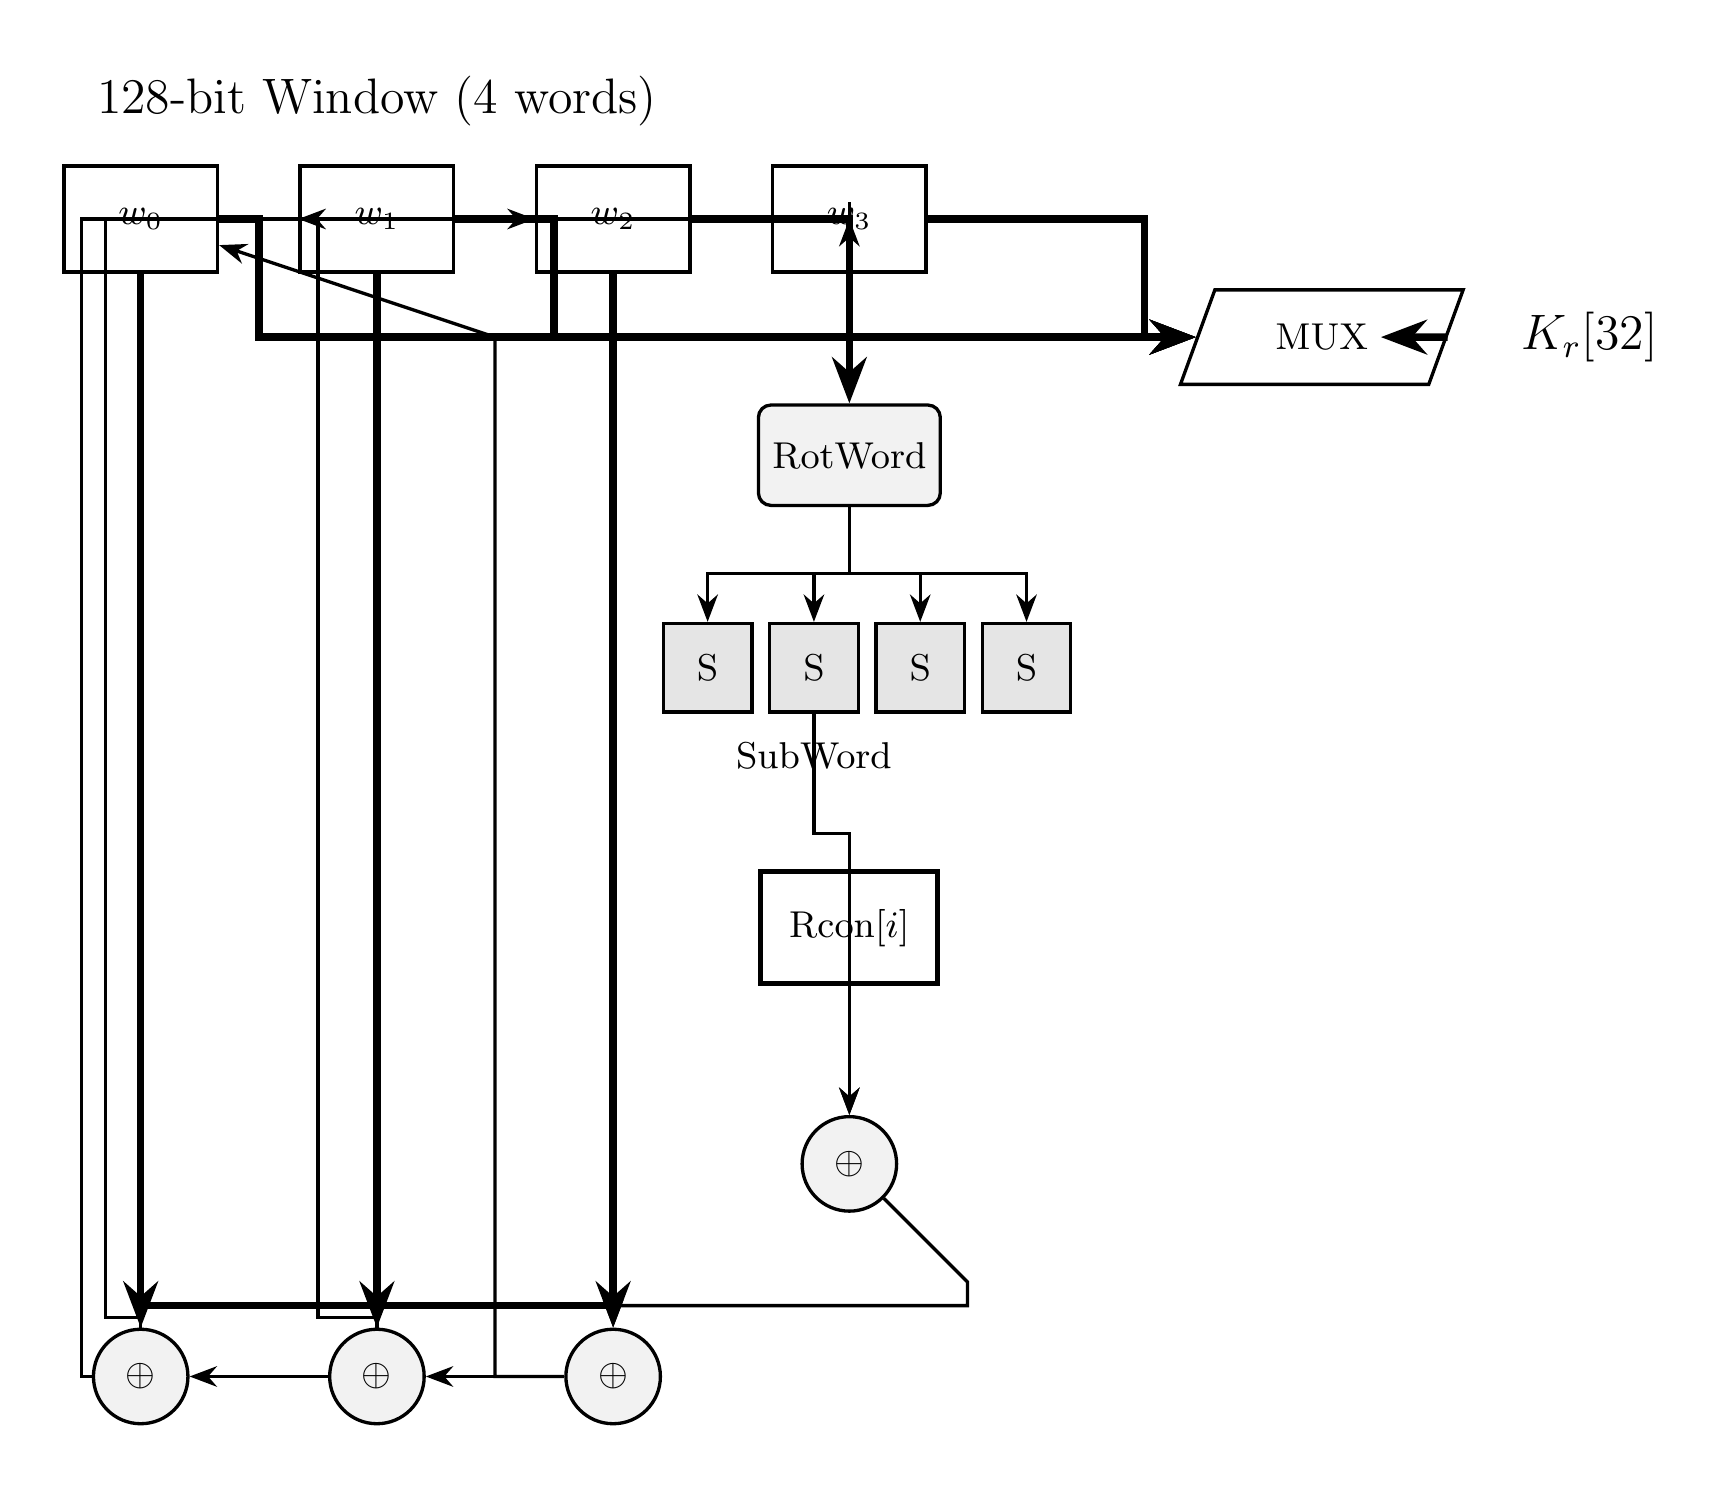
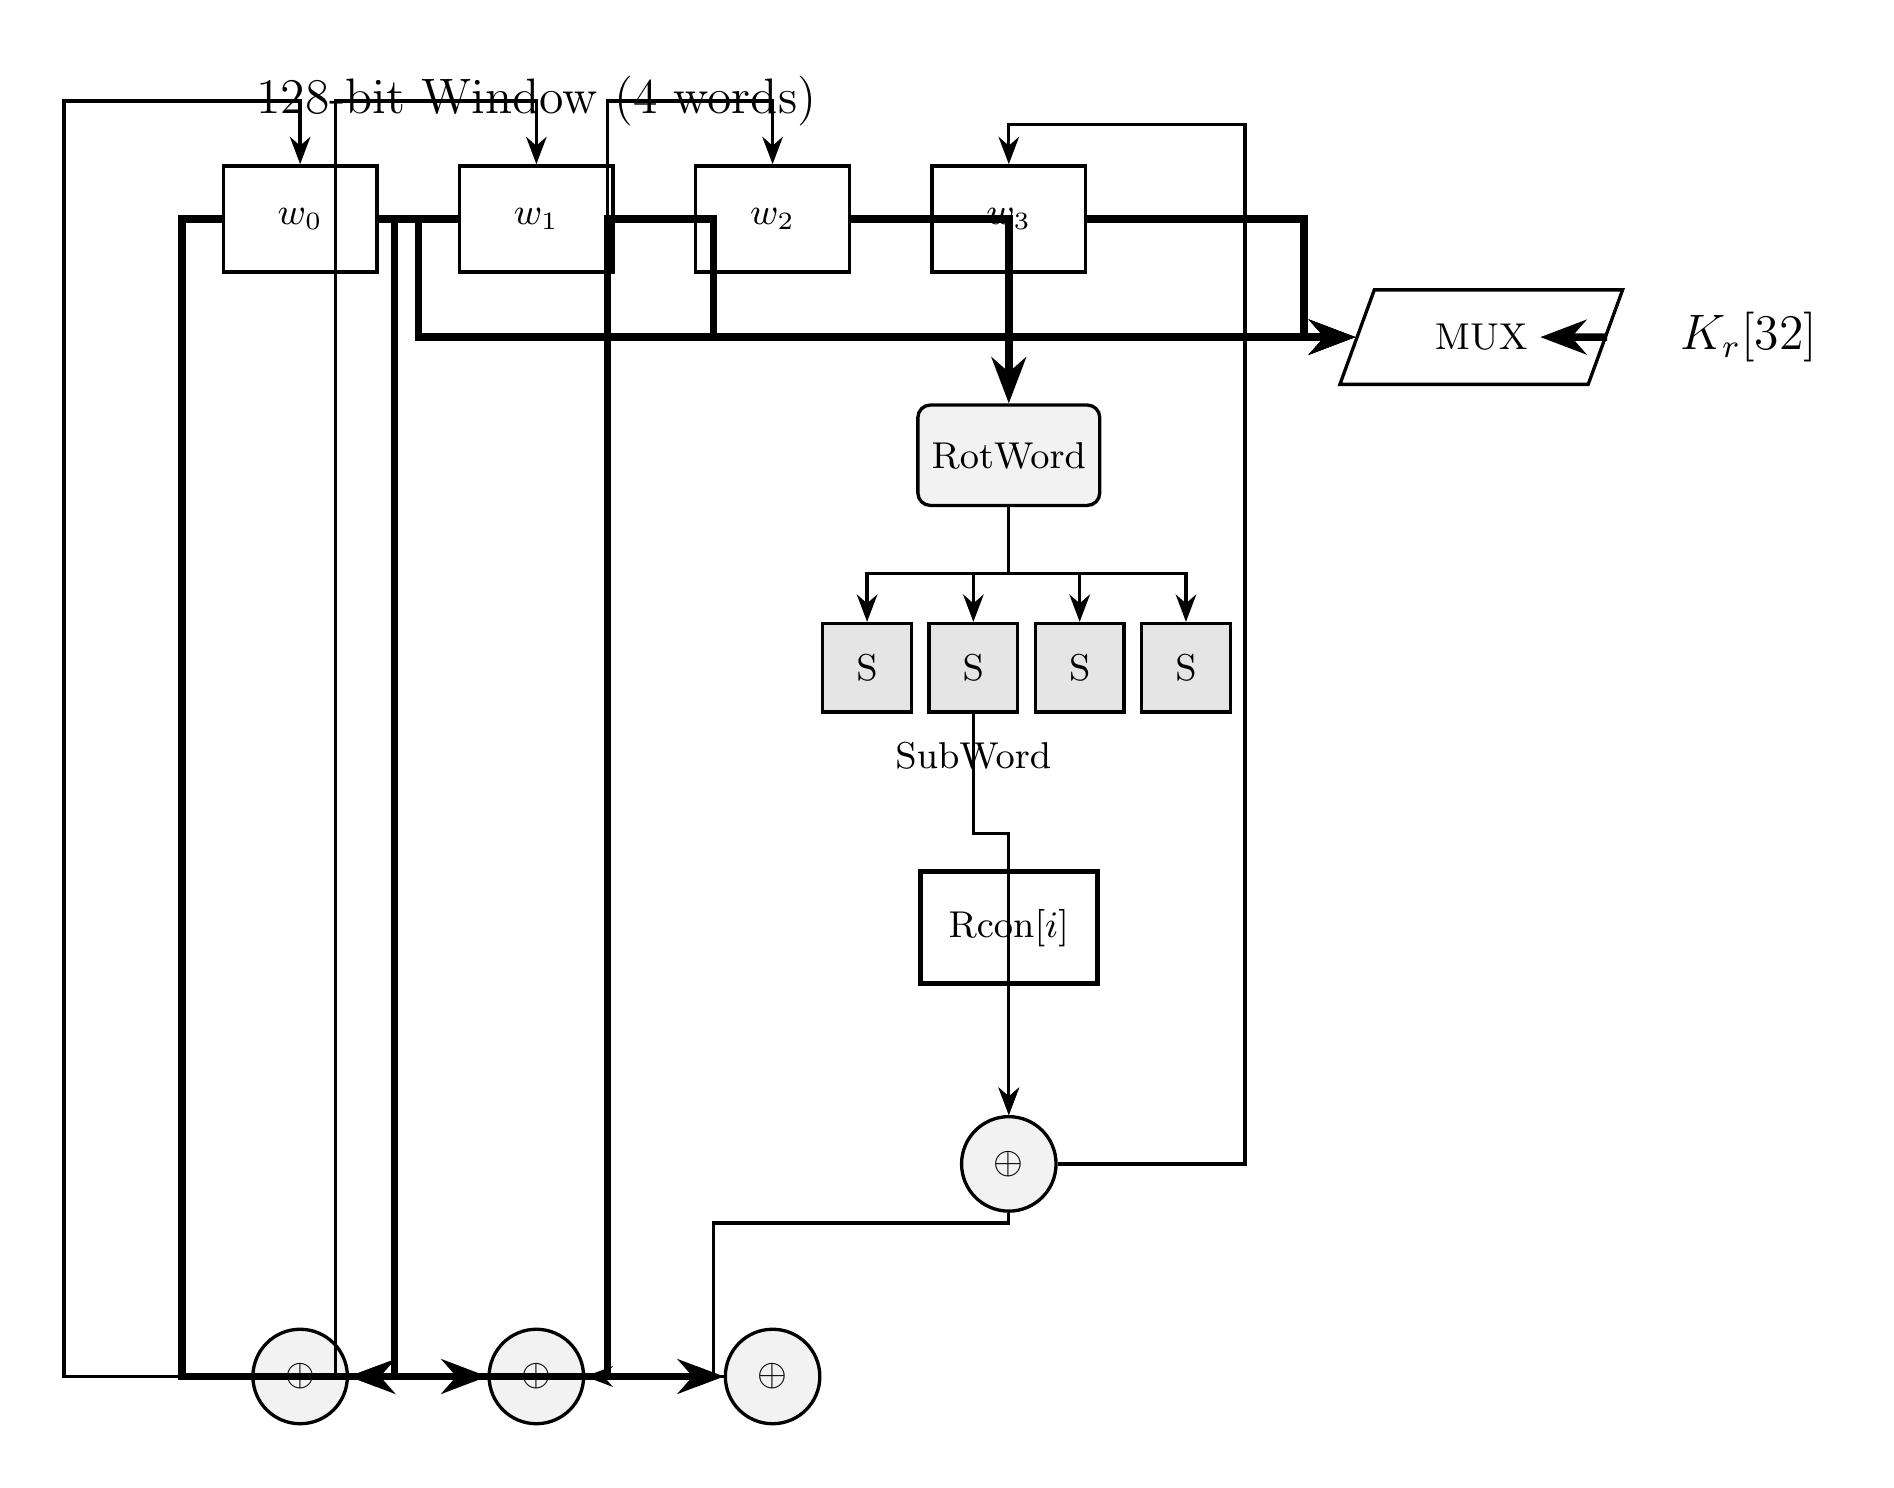
Fix overlapping issues in key expansion and subbytes diagrams
- fig3_keyexp: Reroute feedback paths around left edge instead of through middle
  - Prevents crossing through RotWord, SubWord, and Rcon components
  - Clean dataflow with feedback on periphery

- fig4_subbytes: Fix text rendering and improve spacing
  - Remove ttfamily font that was causing "Byte" to render as ")8 te"
  - Increase spacing: 3cm between byte lanes (up from 2.5cm)
  - Larger component sizes for better clarity
  - Move components further apart vertically

Both diagrams now display cleanly with no overlapping components or text.

Changed region(s): [[0.0311, 0.0309, 0.654, 0.9583], [0.654, 0.1237, 0.9654, 0.2782], [0.436, 0.5565, 0.5917, 0.6801]]

diff --git a/fig4_subbytes.tex b/fig4_subbytes.tex
@@ -6,7 +6,7 @@
     register/.style={
         rectangle, draw=black, thick,
         minimum width=1.2cm, minimum height=0.9cm,
-        fill=white, font=\small\ttfamily
+        fill=white, font=\small
     },
     memory/.style={
         rectangle, draw=black, very thick,
@@ -23,14 +23,14 @@
 \begin{tikzpicture}
 
 % Input
-\node[font=\large] (in) at (3.5,9) {32-bit Column Input};
-\node (split) at (3.5,7.5) {};
+\node[font=\large] (in) at (4,10) {32-bit Column Input};
+\node (split) at (4,8.2) {};
 
 % Input byte registers
-\node[register] (b0) at (0,6) {Byte 3\\{[}31:24{]}};
-\node[register] (b1) at (2.5,6) {Byte 2\\{[}23:16{]}};
-\node[register] (b2) at (5,6) {Byte 1\\{[}15:8{]}};
-\node[register] (b3) at (7.5,6) {Byte 0\\{[}7:0{]}};
+\node[register, minimum width=2cm] (b0) at (0,6) {Byte 3\\{[}31:24{]}};
+\node[register, minimum width=2cm] (b1) at (3,6) {Byte 2\\{[}23:16{]}};
+\node[register, minimum width=2cm] (b2) at (6,6) {Byte 1\\{[}15:8{]}};
+\node[register, minimum width=2cm] (b3) at (9,6) {Byte 0\\{[}7:0{]}};
 
 \node[buswidth] at (-0.9,6) {8};
 
@@ -41,22 +41,25 @@
 \draw[wire] (split) -| (b3);
 
 % S-box LUTs
-\node[memory, minimum width=1.4cm, minimum height=1.4cm] (sb0) at (0,3) {};
-\node[font=\small] at (0,3.4) {S-box};
-\node[font=\small] at (0,3) {LUT};
-\node[font=\small] at (0,2.6) {256$\times$8};
+\node[memory, minimum width=1.6cm, minimum height=1.6cm] (sb0) at (0,2.5) {};
+\node[font=\small] at (0,2.9) {S-box};
+\node[font=\small] at (0,2.5) {LUT};
+\node[font=\small] at (0,2.1) {256$\times$8};
 
-\node[memory, minimum width=1.2cm, minimum height=1.2cm] (sb1) at (2.5,3) {};
-\node[font=\small] at (2.5,3.3) {S-box};
-\node[font=\small] at (2.5,2.7) {LUT};
+\node[memory, minimum width=1.6cm, minimum height=1.6cm] (sb1) at (3,2.5) {};
+\node[font=\small] at (3,2.9) {S-box};
+\node[font=\small] at (3,2.5) {LUT};
+\node[font=\small] at (3,2.1) {256$\times$8};
 
-\node[memory, minimum width=1.2cm, minimum height=1.2cm] (sb2) at (5,3) {};
-\node[font=\small] at (5,3.3) {S-box};
-\node[font=\small] at (5,2.7) {LUT};
+\node[memory, minimum width=1.6cm, minimum height=1.6cm] (sb2) at (6,2.5) {};
+\node[font=\small] at (6,2.9) {S-box};
+\node[font=\small] at (6,2.5) {LUT};
+\node[font=\small] at (6,2.1) {256$\times$8};
 
-\node[memory, minimum width=1.2cm, minimum height=1.2cm] (sb3) at (7.5,3) {};
-\node[font=\small] at (7.5,3.3) {S-box};
-\node[font=\small] at (7.5,2.7) {LUT};
+\node[memory, minimum width=1.6cm, minimum height=1.6cm] (sb3) at (9,2.5) {};
+\node[font=\small] at (9,2.9) {S-box};
+\node[font=\small] at (9,2.5) {LUT};
+\node[font=\small] at (9,2.1) {256$\times$8};
 
 \draw[wire] (b0) -- (sb0);
 \draw[wire] (b1) -- (sb1);
@@ -64,10 +67,10 @@
 \draw[wire] (b3) -- (sb3);
 
 % Output byte registers
-\node[register] (o0) at (0,0.5) {Byte 3'\\{[}31:24{]}};
-\node[register] (o1) at (2.5,0.5) {Byte 2'\\{[}23:16{]}};
-\node[register] (o2) at (5,0.5) {Byte 1'\\{[}15:8{]}};
-\node[register] (o3) at (7.5,0.5) {Byte 0'\\{[}7:0{]}};
+\node[register, minimum width=2cm] (o0) at (0,-0.5) {Byte 3'\\{[}31:24{]}};
+\node[register, minimum width=2cm] (o1) at (3,-0.5) {Byte 2'\\{[}23:16{]}};
+\node[register, minimum width=2cm] (o2) at (6,-0.5) {Byte 1'\\{[}15:8{]}};
+\node[register, minimum width=2cm] (o3) at (9,-0.5) {Byte 0'\\{[}7:0{]}};
 
 \draw[wire] (sb0) -- (o0);
 \draw[wire] (sb1) -- (o1);
@@ -75,8 +78,8 @@
 \draw[wire] (sb3) -- (o3);
 
 % Merge point
-\node (merge) at (3.5,-1) {};
-\node[font=\large] (out) at (3.5,-2.2) {32-bit Column Output};
+\node (merge) at (4.5,-2.2) {};
+\node[font=\large] (out) at (4.5,-3.5) {32-bit Column Output};
 
 \draw[wire] (o0) |- (merge);
 \draw[wire] (o1) |- (merge);
@@ -85,7 +88,7 @@
 \draw[bus] (merge) -- (out);
 
 % Mode control
-\node[register, minimum width=1.2cm, minimum height=0.9cm] (mode) at (-2.5,3) {enc/dec};
+\node[register, minimum width=1.2cm, minimum height=0.9cm] (mode) at (-2.5,2.5) {enc/dec};
 \draw[controlwire] (mode) -- (sb0.west);
 
 \end{tikzpicture}

diff --git a/fig3_keyexp.tex b/fig3_keyexp.tex
@@ -64,27 +64,30 @@
 \node[logic, circle, minimum size=0.8cm] (x3) at (2,-1.8) {$\oplus$};
 \node[logic, circle, minimum size=0.8cm] (x4) at (0,-1.8) {$\oplus$};
 
-% Connections
+% Connections from w3 to RotWord to SubWord
 \draw[bus] (w3) -- (rot);
 \draw[wire] (rot) -- ++(0,-1) -| (s0);
 \draw[wire] (rot) -- ++(0,-1) -| (s1);
 \draw[wire] (rot) -- ++(0,-1) -| (s2);
 \draw[wire] (rot) -- ++(0,-1) -| (s3);
 
+% Connections to XOR chain
 \draw[wire] (s1) -- ++(0,-1.4) -| (x1);
 \draw[wire] (rcon) -- (x1);
-\draw[bus] (w0) -- ++(0,-9.2) -| (x2);
-\draw[wire] (x1) -- ++(1,-1) -- ++(0,-0.2) -- ++(-3,0) -- (x2);
-\draw[wire] (x2) -- (x3);
-\draw[bus] (w1) -- ++(0,-9.2) -| (x3);
-\draw[wire] (x3) -- (x4);
-\draw[bus] (w2) -- ++(0,-9.2) -| (x4);
 
-% Feedback paths
-\draw[wire] (x2) -- ++(-1,0) -- ++(0,8.8) -- (w0);
-\draw[wire] (x3) -- ++(0,0.5) -- ++(-0.5,0) -- ++(0,9.3) -- (w1);
-\draw[wire] (x4) -- ++(0,0.5) -- ++(-0.3,0) -- ++(0,9.3) -- (w2);
-\draw[wire] (x4) -- ++(-0.5,0) -- ++(0,9.8) -- ++(6.5,0) -- (w3);
+% Forward XOR connections (going down and left around the outside)
+\draw[wire] (x1) -- ++(0,-0.5) -| ++(-2.5,0) |- (x2);
+\draw[bus] (w0) -| ++(-1,0) |- (x2);
+\draw[wire] (x2) -- (x3);
+\draw[bus] (w1) -| ++(-1.2,0) |- (x3);
+\draw[wire] (x3) -- (x4);
+\draw[bus] (w2) -| ++(-1.4,0) |- (x4);
+
+% Feedback paths - route around the LEFT side, not through the middle
+\draw[wire] (x4) -- ++(-2,0) -- ++(0,10.8) -| (w0);
+\draw[wire] (x3) -- ++(-1.7,0) -- ++(0,10.8) -| (w1);
+\draw[wire] (x2) -- ++(-1.4,0) -- ++(0,10.8) -| (w2);
+\draw[wire] (x1) -- ++(2,0) -- ++(0,8.8) -| (w3);
 
 % Output MUX
 \node[mux] (outmux) at (10,7) {MUX};
